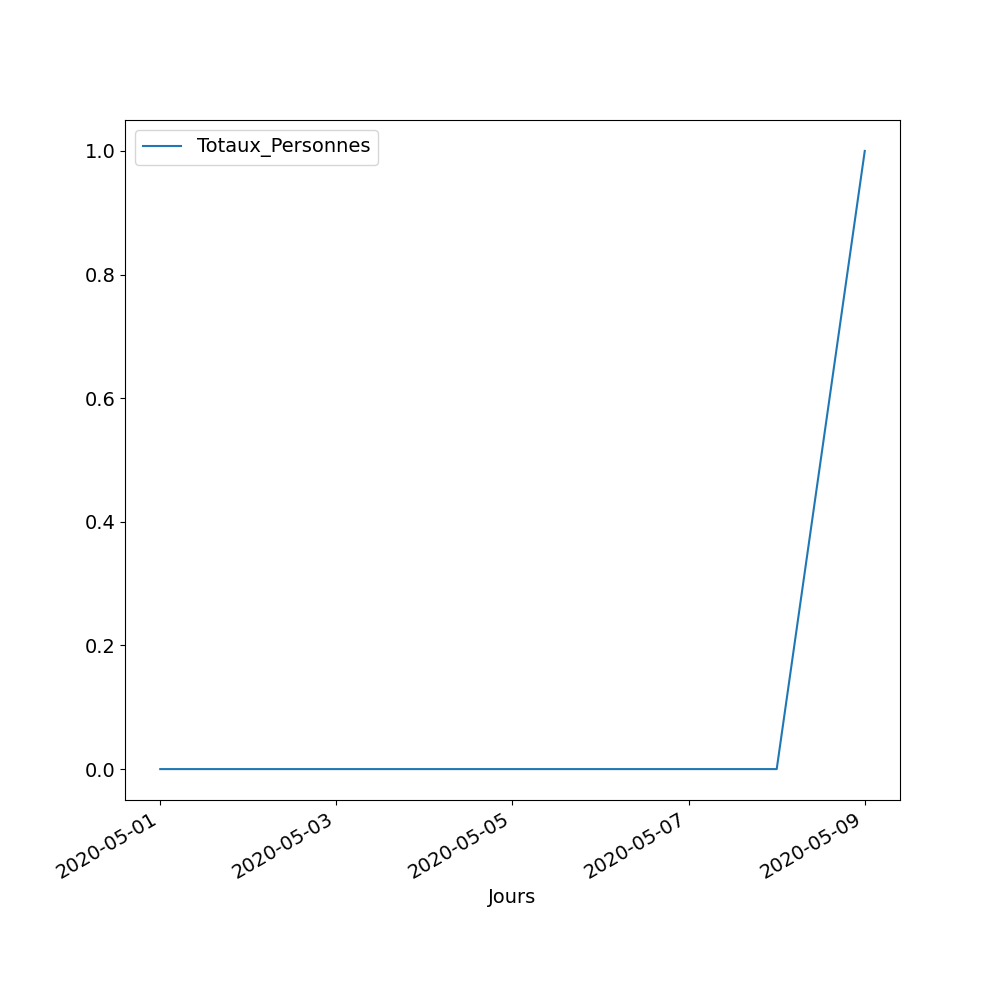
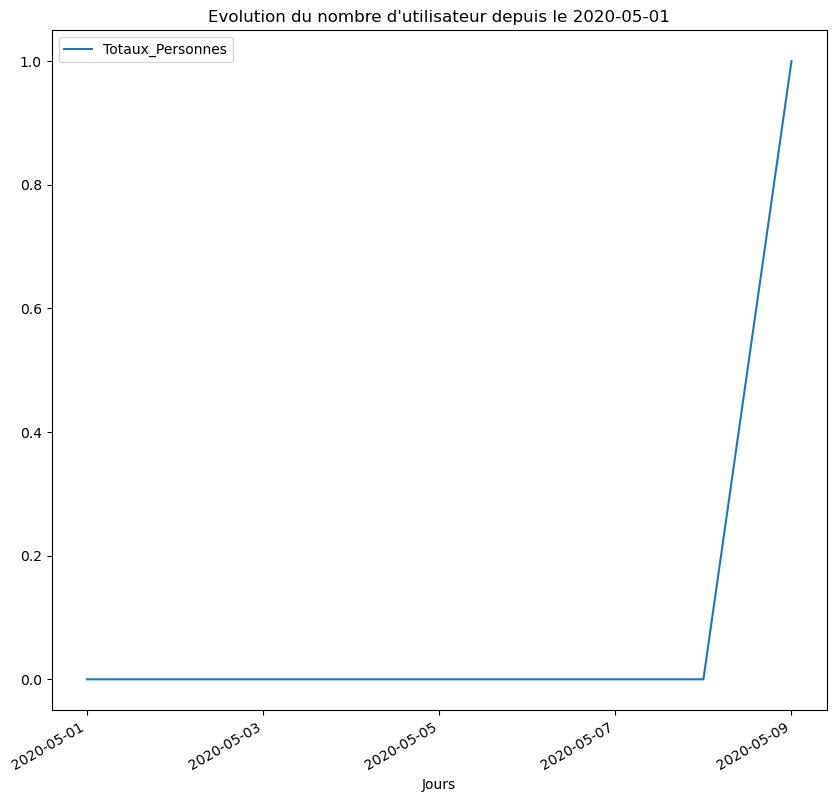
Correction taille image, contour blanc, titre, color

diff --git a/Projet_Python/views/HTML/admin.html b/Projet_Python/views/HTML/admin.html
@@ -22,7 +22,10 @@
 		<h2>Aperçu des statistiques</h2>
 		<h3>Analyse de la quantité de produits commandée</h3>
 		<figure>
-			<img src="{% static 'Image/TreeMap_Quantite-totale-produit.png' %}" alt="Treemap de la quantité de produits commandée" title="Pie chart des produits" />
+			<img src="{% static 'Image/TreeMap_Quantite-totale-produit.png' %}" 
+			alt="Treemap de la quantité de produits commandée" 
+			title="Pie chart des produits" 
+			/>
 			<figcaption>TreeMap mettant en valeur les produits les plus commandés</figcaption>
 		</figure>
 		<br/>

diff --git a/Projet_Python/Projet_Python/methode_JSON/methodes_Statistiques.py b/Projet_Python/Projet_Python/methode_JSON/methodes_Statistiques.py
@@ -91,11 +91,14 @@ def PieChart_Product():
 def TreeMap_Product():
     if(os.path.isfile('assets/Image/TreeMap_Quantite-totale-produit.png')):
         os.remove('assets/Image/TreeMap_Quantite-totale-produit.png')#Supprimer l'image actuelle
-    plt.rc('font', size=14)
-    squarify.plot(sizes = commandeJson.values(), label=commandeJson.keys(), alpha=0.7)
+    colors = ['orangered', 'darkorange', 'gold','yellow','greenyellow','palegreen', 'turquoise','paleturquoise','lavender','pink']
+    plt.figure(figsize=(8, 6))
+    plt.rc('font', size=10) 
+    squarify.plot(sizes = commandeJson.values(), label=commandeJson.keys(), alpha=0.7, color=colors)
     plt.axis('off')
+    
     plt.title('TreeMap des quantités par produit')
-    plt.savefig('assets/Image/TreeMap_Quantite-totale-produit.png')
+    plt.savefig('assets/Image/TreeMap_Quantite-totale-produit.png', bbox_inches='tight') #rajouter : pad_inches = 0 si on ne veut aucune zone blanche
     plt.close()
     #plt.show()
 
@@ -139,7 +142,7 @@ def GraphTotalCommande():
                             kind='line',title="Graphique des commandes cumulées depuis le " + startdate.strftime(("%Y-%m-%d")),
                             grid=True, legend = False, figsize=(15,6), color='g')
     myFig.xaxis.set_major_locator(mdates.DayLocator(bymonthday=range(1,32,2)))
-    myFig.get_figure().savefig('assets/Image/Cumule-Commandes.png')
+    myFig.get_figure().savefig('assets/Image/Cumule-Commandes.png', bbox_inches='tight')
 
 
 
@@ -248,9 +251,10 @@ def Quantite_Client():
     }
     df=DataFrame(Data,columns=['Jours','Totaux_Personnes'])
     df['Jours']= pd.to_datetime(df['Jours'])
-    fig = df.plot(x='Jours', y='Totaux_Personnes',figsize=(10,10),x_compat=True)
+    fig = df.plot(x='Jours', y='Totaux_Personnes',figsize=(10,10),x_compat=True, 
+                    title="Evolution du nombre d'utilisateur depuis le " + startdate.strftime(("%Y-%m-%d")))
     fig.xaxis.set_major_locator(mdates.DayLocator(bymonthday=range(1,32,2)))
-    fig.get_figure().savefig('assets/Image/Totaux_Personnes_Courbe.png')
+    fig.get_figure().savefig('assets/Image/Totaux_Personnes_Courbe.png', bbox_inches='tight')
 
 def EntrepotArrondissement():
     df=pd.DataFrame({ 'Arrondissement':[75001,75002,75003,75004,75005,75006,75007,75008,75009,75010,75011,75012,75013,75014,75015,75016,75017,75018,75019,75020],
